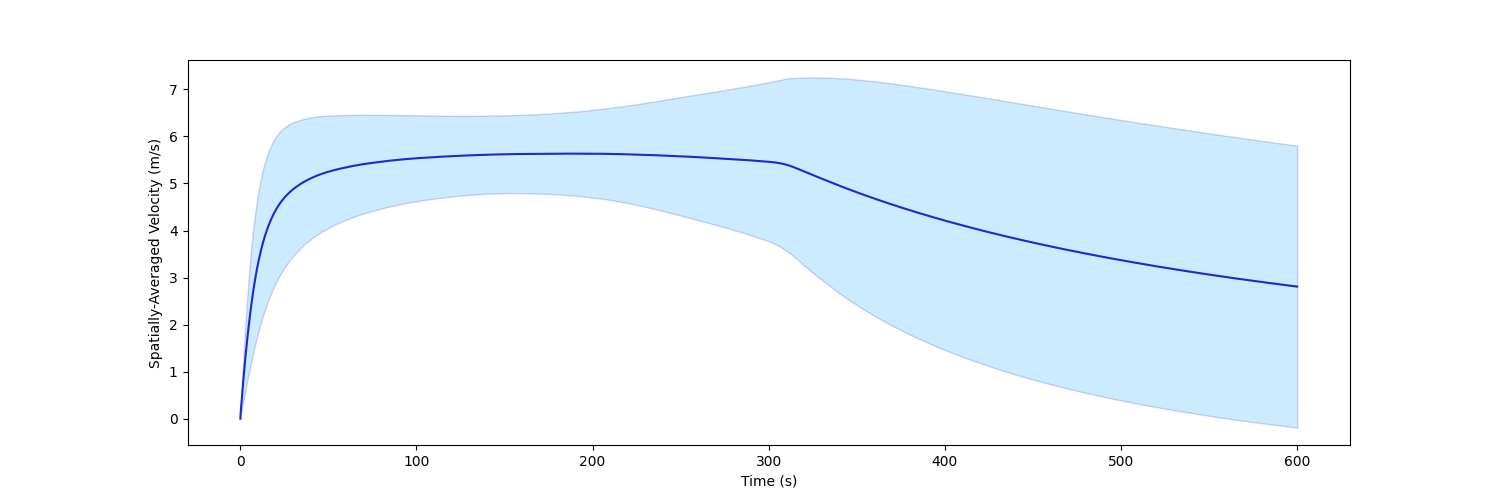
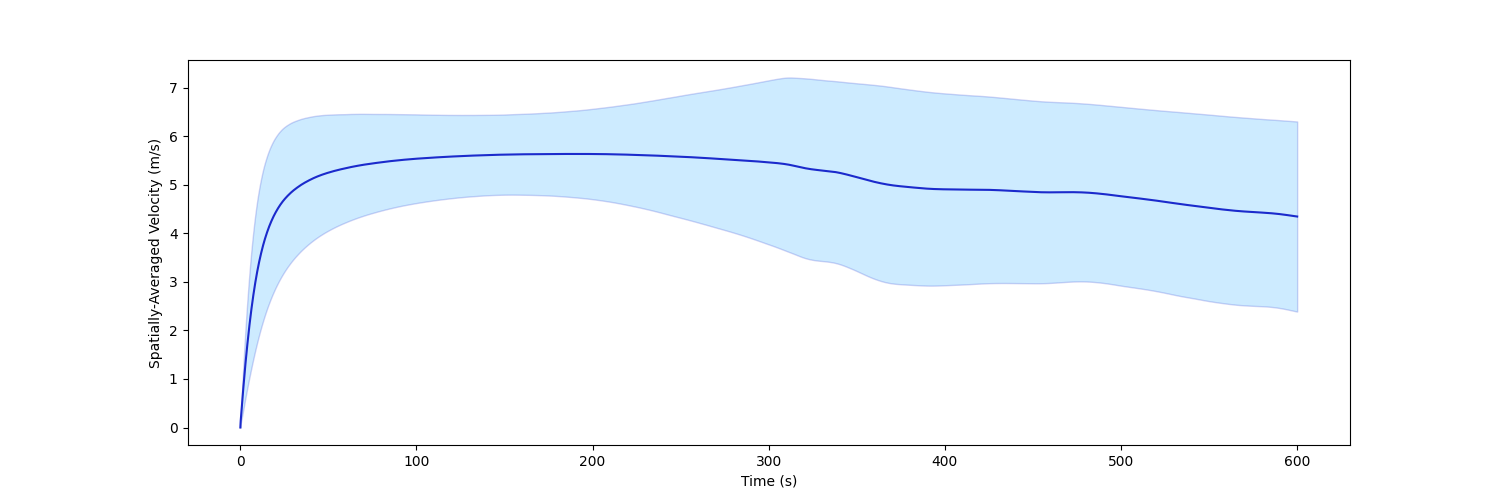
config change

diff --git a/main.py b/main.py
@@ -17,7 +17,7 @@ def main():
         scripts.train_dqn.evaluate("/home/vamsi/Documents/GitHub/RingRoad-RL/Models/DQN/DQNTrainer_2022-03-03_19-28-07/DQNTrainer_ringroad-v1_f4621_00000_0_2022-03-03_19-28-08/checkpoint_000488/checkpoint-488")
 
     elif args.type == "eval_ppo":
-        scripts.train_ppo.evaluate("/home/vamsi/Documents/GitHub/RingRoad-RL/Models/PPO/PPOTrainer_2022-03-10_10-01-32/PPOTrainer_ringroad-v1_f6b38_00000_0_2022-03-10_10-01-33/checkpoint_000250/checkpoint-250")
+        scripts.train_ppo.evaluate("/home/vamsi/Documents/GitHub/RingRoad-RL/Models/PPO/PPOTrainer_2022-03-10_13-51-36/PPOTrainer_ringroad-v1_1a0c8_00000_0_2022-03-10_13-51-36/checkpoint_000250/checkpoint-250")
 
     elif args.type == "eval_idm":
         scripts.evaluate_idm.evaluate()

diff --git a/Ring_Road/envs/ringroad.py b/Ring_Road/envs/ringroad.py
@@ -138,10 +138,10 @@ class RingRoad(gym.Env):
 
         # reward average velocity
         eta_2 = 4.
-        reward = eta_2 * self._get_average_vel() / 20
+        reward = self._get_average_vel()
 
         # punish accelerations (should lead to reduced stop-and-go waves)
-        eta = 5  # 0.25
+        eta = 0.1  # 0.25
         mean_actions = np.mean(np.abs(np.array(action)))
         accel_threshold = 0
 

diff --git a/experiment.py b/experiment.py
@@ -75,6 +75,6 @@ class Experiment:
             met.step()
             episode_reward += reward
             # env.render()
-            # print(env.action_steps, reward)
+            print(env.action_steps, reward)
         met.plot()
         return episode_reward
